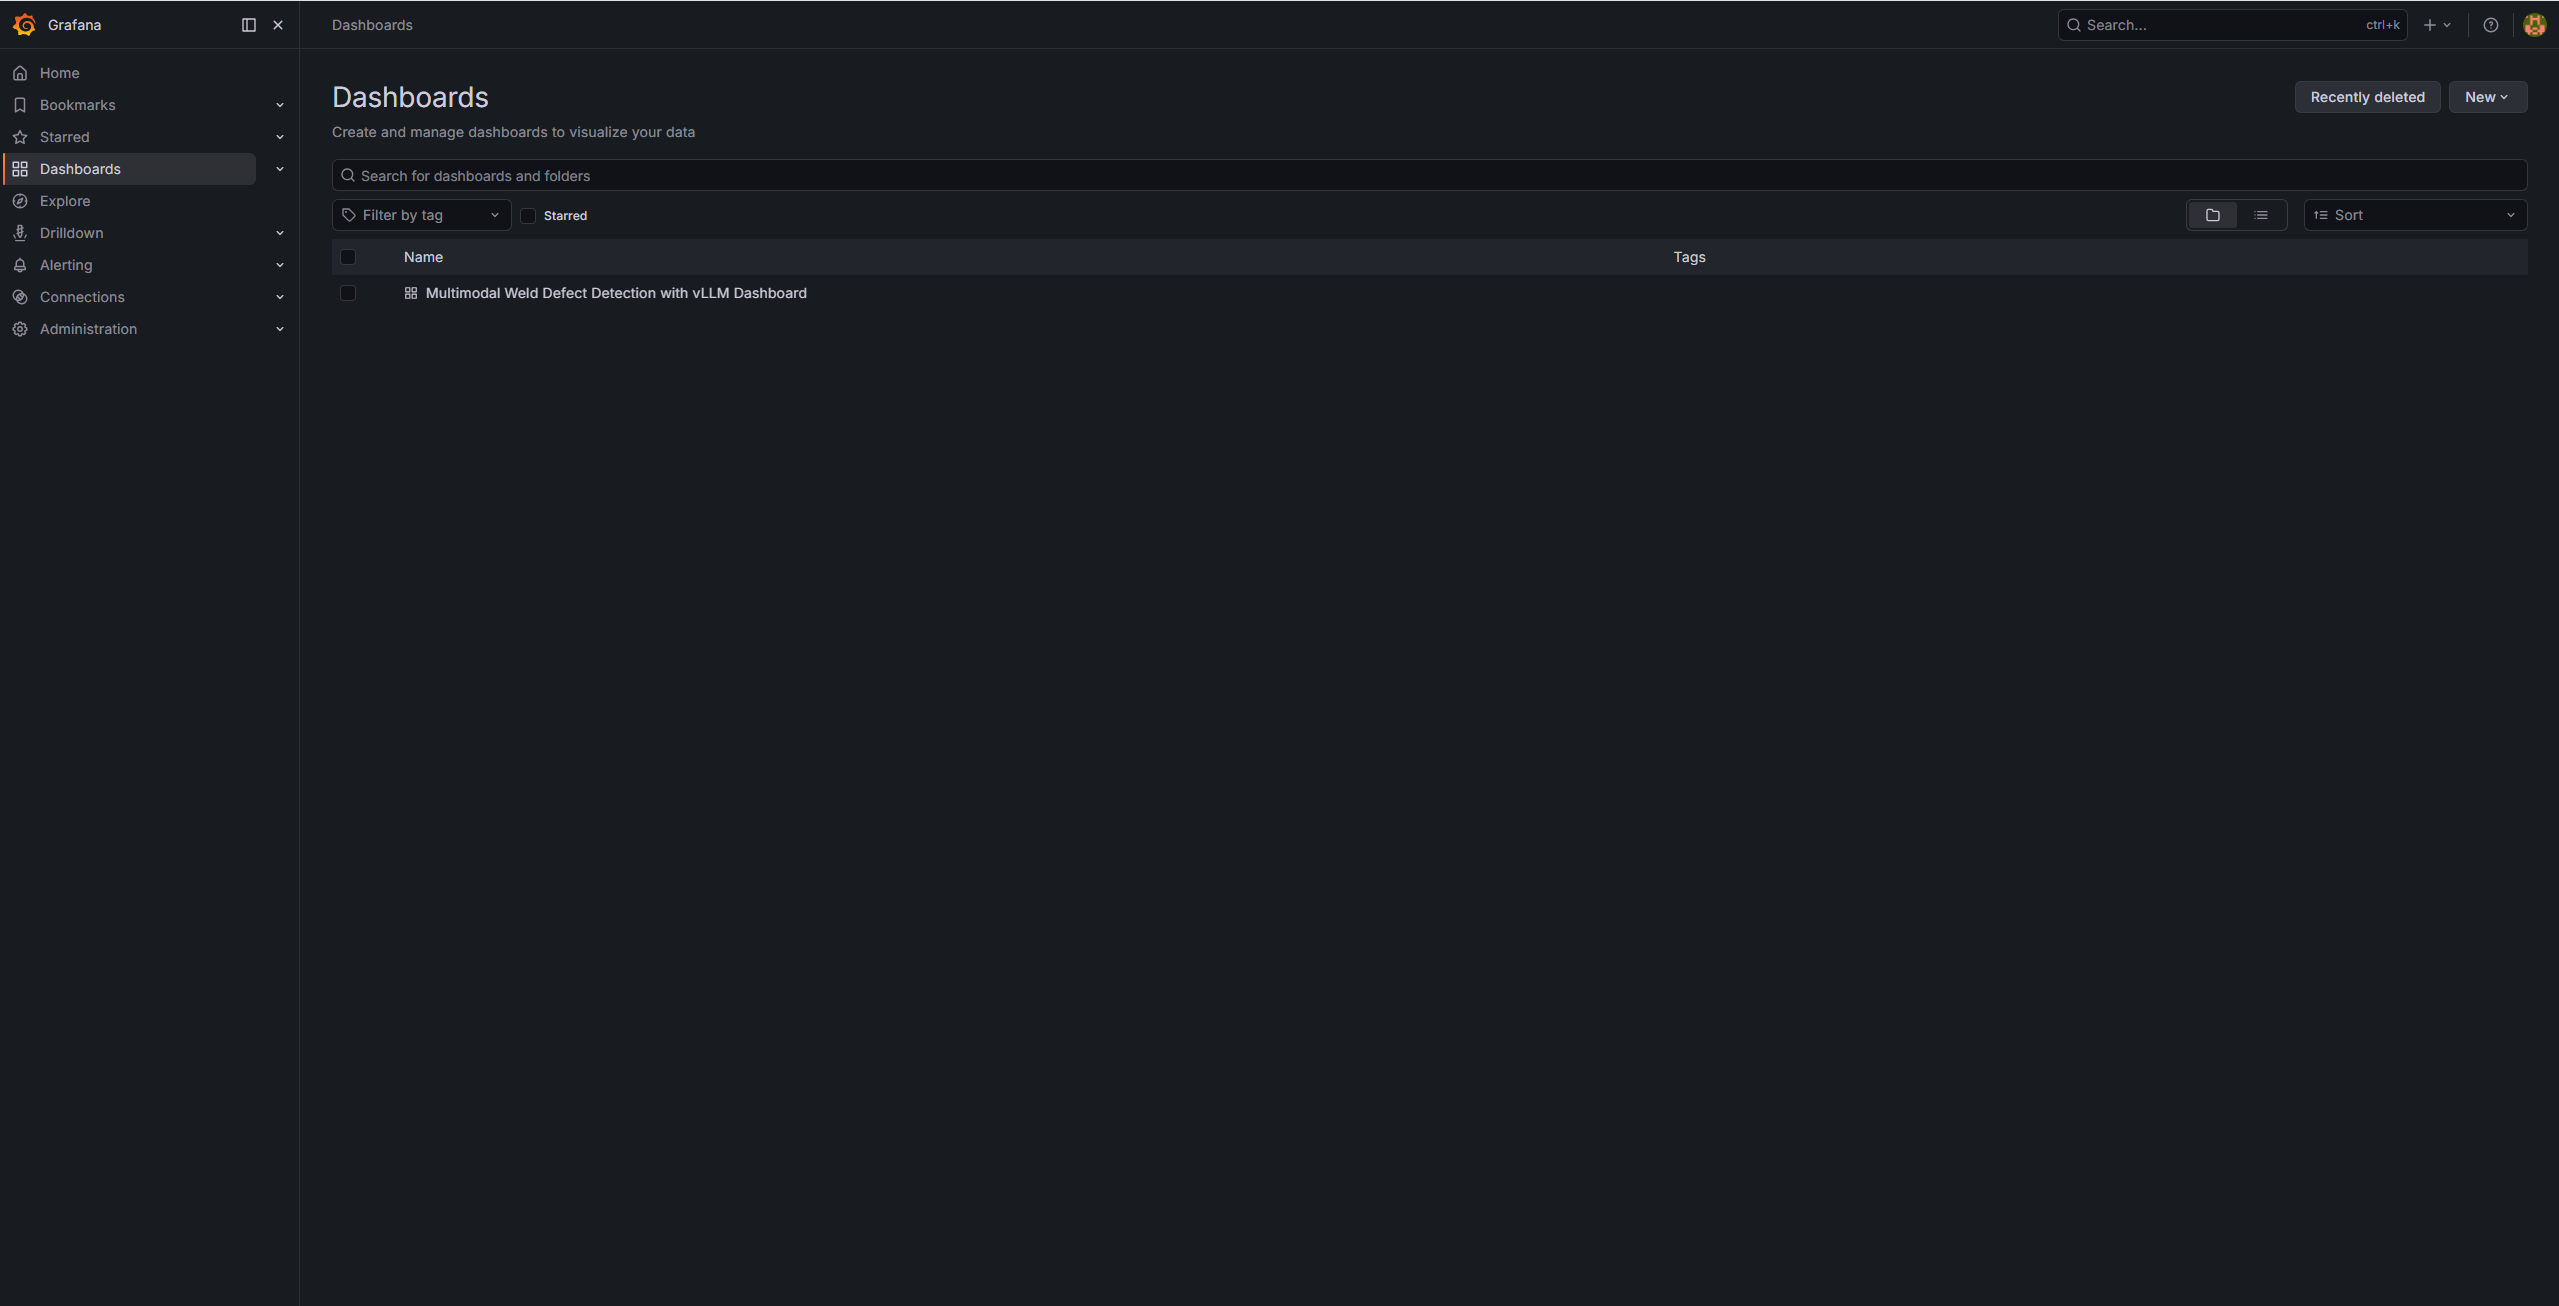
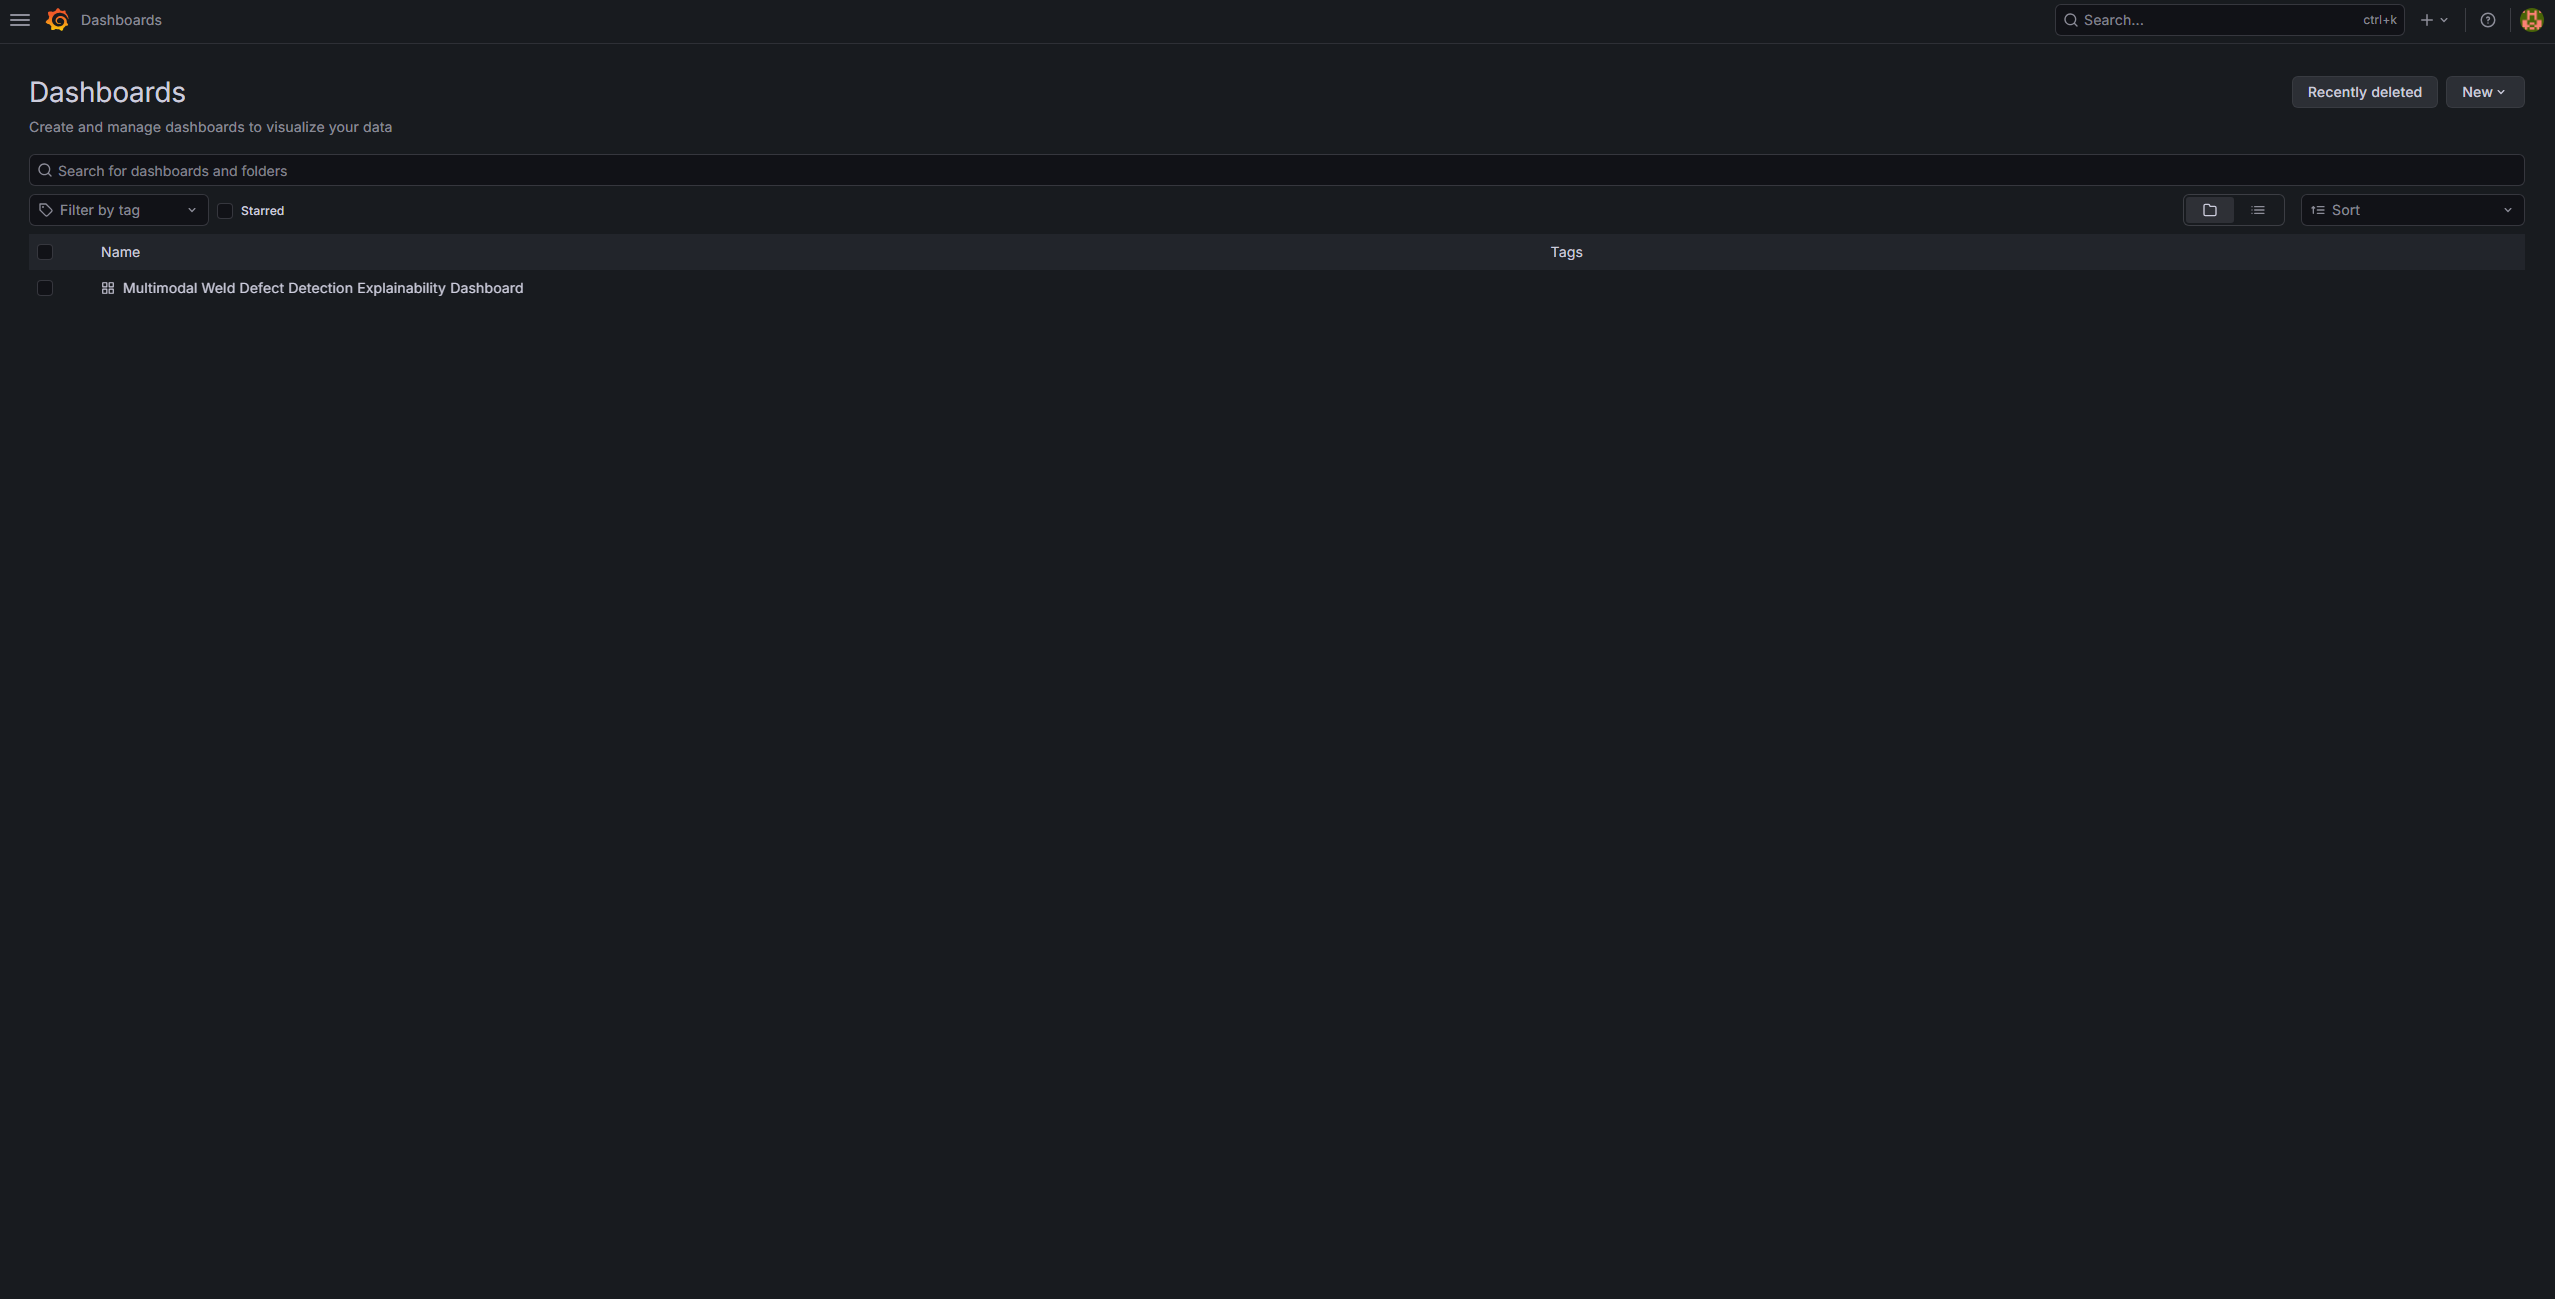
Improvements

diff --git a/manufacturing-ai-suite/industrial-edge-insights-multimodal/insights-workbench/templates/index.html b/manufacturing-ai-suite/industrial-edge-insights-multimodal/insights-workbench/templates/index.html
@@ -502,12 +502,17 @@
       autoRefreshTimerId: null,
     };
 
+    function updateRefreshControlsState() {
+      const disableRefreshControls = state.loading || hasSelectedRows();
+      refreshTopBtn.disabled = disableRefreshControls;
+      refreshIntervalSelect.disabled = disableRefreshControls;
+    }
+
     function setLoading(loading) {
       state.loading = loading;
       prevBtn.disabled = loading || state.page <= 1;
       nextBtn.disabled = loading || !state.hasMore;
-      refreshTopBtn.disabled = loading;
-      refreshIntervalSelect.disabled = loading;
+      updateRefreshControlsState();
     }
 
     function startAutoRefreshTimer() {
@@ -536,6 +541,7 @@
       const enabled = hasSelectedRows() && !state.loading && !state.explainLoading;
       explainBtn.disabled = !enabled;
       explainBtn.classList.toggle("enabled", enabled);
+      updateRefreshControlsState();
     }
 
     function getSelectedTimes() {
